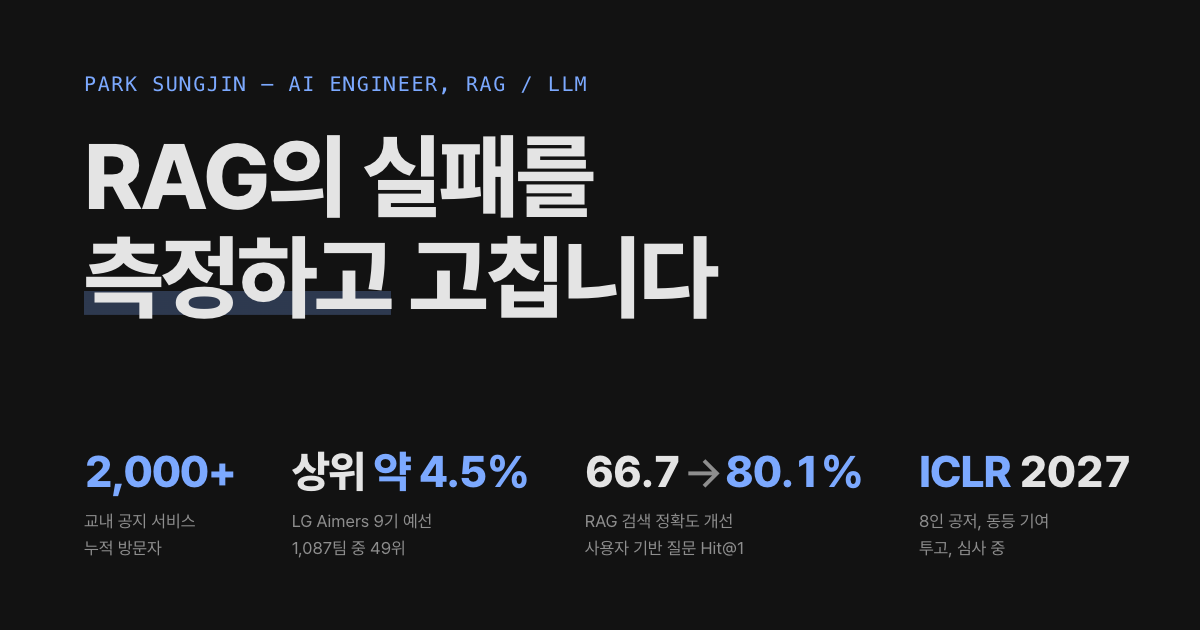
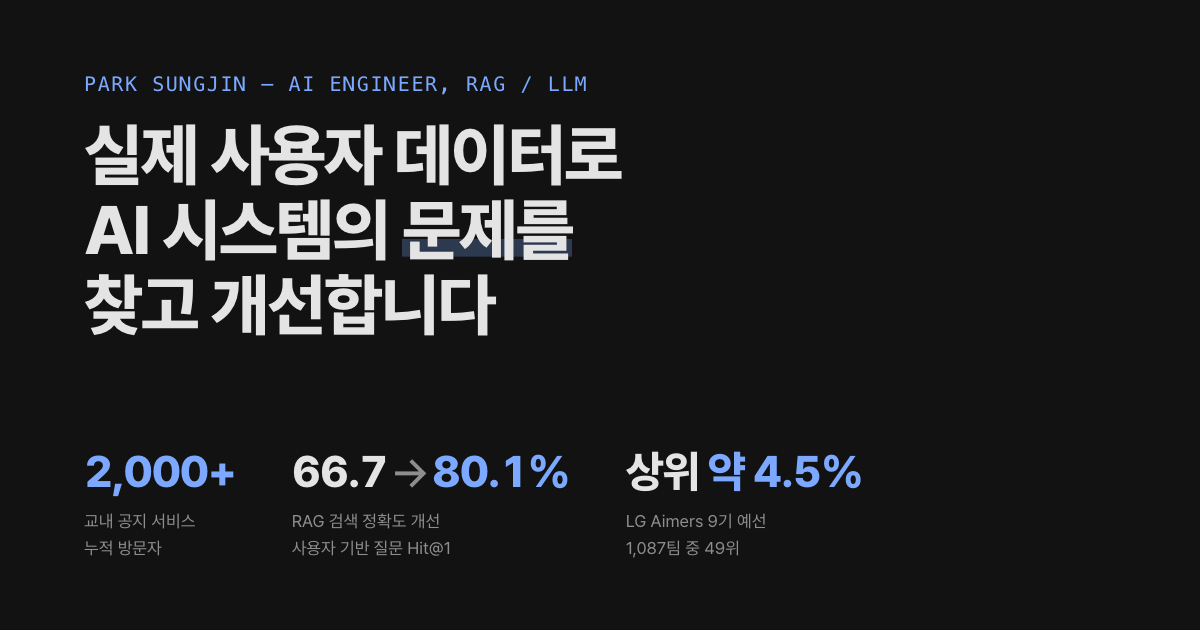
첫 화면 정리: 제목 '실제 사용자 데이터로 AI 시스템의 문제를 찾고 개선합니다', 설명 한 문장, 지표 3개(ICLR 제외), og.png 재생성

diff --git a/index.html b/index.html
@@ -14,7 +14,7 @@ document.documentElement.setAttribute('data-theme',t);})();
 <meta property="og:title" content="박성진 — AI 엔지니어 (RAG, LLM)">
 <meta property="og:description" content="교내 공지 서비스 운영(누적 방문자 2,000+), RAG Hit@1 66.7% → 80.1%(사용자 기반 질문), LG Aimers 9기 온라인 예선 상위 약 4.5%, ICLR 2027 투고 공저(8인 동등 기여)">
 <meta property="og:url" content="https://jinpop.github.io/">
-<meta property="og:image" content="https://jinpop.github.io/og.png?v=13">
+<meta property="og:image" content="https://jinpop.github.io/og.png?v=14">
 <meta property="og:locale" content="ko_KR">
 <meta name="twitter:card" content="summary_large_image">
 <link rel="canonical" href="https://jinpop.github.io/">
@@ -126,7 +126,7 @@ li:target,p:target,tr:target,article:target>h3,details:target>summary{animation:
 .eyebrow{font-family:var(--mono);font-size:.78rem;letter-spacing:.08em;color:var(--accent);text-transform:uppercase}
 h1{
   margin-top:1.25rem;
-  font-size:clamp(2.5rem,1.6rem + 4.5vw,5rem);
+  font-size:clamp(1.85rem,0.9rem + 5.2vw,4.6rem);
   font-weight:800;line-height:1.12;letter-spacing:-0.03em;
 }
 h1 .ul{
@@ -138,7 +138,7 @@ h1 .ul{
 .nb{white-space:nowrap}
 @media (max-width:760px){.br-wide{display:none}}
 
-.stats{margin-top:clamp(2.5rem,2rem + 3vw,4.5rem);list-style:none;display:grid;grid-template-columns:repeat(4,auto);justify-content:start;column-gap:clamp(1.5rem,4vw,3.5rem);row-gap:1.75rem}
+.stats{margin-top:clamp(2.5rem,2rem + 3vw,4.5rem);list-style:none;display:grid;grid-template-columns:repeat(3,auto);justify-content:start;column-gap:clamp(1.5rem,4vw,3.5rem);row-gap:1.75rem}
 .stats .num{
   display:block;font-variant-numeric:tabular-nums;white-space:nowrap;
   font-size:clamp(1.9rem,1.5rem + 1.8vw,2.7rem);font-weight:800;letter-spacing:-0.03em;line-height:1.1;
@@ -365,7 +365,7 @@ figcaption{margin-top:.85rem;font-size:.85rem;color:var(--fg-3);max-width:52ch}
 }
 
 /* ── responsive ─────────────────────────────────────── */
-@media (max-width:1149px){.stats{grid-template-columns:repeat(2,auto)}}
+@media (max-width:760px){.stats{grid-template-columns:repeat(2,auto)}}
 @media (max-width:640px){.stats .num{font-size:6.2vw}}
 @media (max-width:860px){
   .about-grid{grid-template-columns:1fr}
@@ -423,17 +423,15 @@ figcaption{margin-top:.85rem;font-size:.85rem;color:var(--fg-3);max-width:52ch}
   <!-- ── hero ── -->
   <section class="hero shell" id="top" aria-label="소개">
     <p class="eyebrow">Park Sungjin — AI Engineer, RAG / LLM</p>
-    <h1>RAG의 실패를<br><span class="ul">측정하고</span> 고칩니다</h1>
+    <h1><span class="nb">실제 사용자 데이터로</span><br><span class="nb">AI 시스템의 <span class="ul">문제를</span></span><br>찾고 개선합니다</h1>
     <div class="lede">
-      <p><b>실사용자가 있는 RAG 서비스를 직접 만들고 운영하는</b> AI 엔지니어 박성진입니다.<br class="br-wide"> 운영에서 나온 검색 실패를 <b>연구 문제로 정의하고, 그 결과를 다시 서비스에 적용</b>합니다.</p>
-      <p>익숙한 방식도 더 빠른 길이 없는지 먼저 따져 봅니다.<br class="br-wide"> 실험 운영은 <b>역할별 AI 에이전트로 나눠 맡기고</b>, 전략과 최종 판단은 직접 합니다.<br><a class="lk jump" href="#exo-speed">하이퍼파라미터 탐색 시간 약&nbsp;60배 단축(환산)</a>, <span class="nb"><a class="lk jump" href="#rostercrawler">근로 업무 1주일을 5분으로</a>,</span> <span class="nb"><a class="lk jump" href="#dacon-harness">에이전트 하네스 설계</a></span></p>
+      <p>RAG 서비스를 직접 개발하고 운영하며 검색 품질을 평가하고, <b>발견한 실패를 실험과 <span class="nb">시스템 개선으로</span> 연결</b>해 왔습니다.</p>
       <p><span class="nb">한국항공대학교 소프트웨어학과</span>, <span class="nb">2027년 2월 졸업 예정.</span></p>
     </div>
     <ul class="stats" role="list">
       <li><a class="stat" href="#nh-now"><b class="num"><em>2,000+</em></b><span class="lab">교내 공지 서비스<br>누적 방문자</span></a></li>
-      <li><a class="stat" href="#aimers9"><b class="num">상위 <em>약 4.5%</em></b><span class="lab">LG Aimers 9기 예선<br>1,087팀 중 49위</span></a></li>
       <li><a class="stat" href="#nh-realuser"><b class="num">66.7<span class="arr">→</span><em>80.1%</em></b><span class="lab">RAG 검색 정확도 개선<br>사용자 기반 질문 Hit@1</span></a></li>
-      <li><a class="stat" href="#exodro"><b class="num"><em>ICLR</em> 2027</b><span class="lab">8인 공저, 동등 기여<br>투고, 심사 중</span></a></li>
+      <li><a class="stat" href="#aimers9"><b class="num">상위 <em>약 4.5%</em></b><span class="lab">LG Aimers 9기 예선<br>1,087팀 중 49위</span></a></li>
     </ul>
     <p class="hero-links">
       <a class="ext" href="https://github.com/Jinpop" target="_blank" rel="noopener">GitHub</a>

diff --git a/tools/og.html b/tools/og.html
@@ -6,7 +6,7 @@
 html,body{width:1200px;height:630px;background:#121212;color:#E4E4E4;overflow:hidden}
 body{font-family:Pretendard,"Apple SD Gothic Neo",sans-serif;padding:72px 84px 0;-webkit-font-smoothing:antialiased}
 .eyebrow{font-family:ui-monospace,"SF Mono",Menlo,monospace;font-size:20px;letter-spacing:.08em;color:#7CA9FF;text-transform:uppercase}
-h1{margin-top:30px;font-size:92px;font-weight:800;line-height:1.1;letter-spacing:-0.03em}
+h1{margin-top:22px;font-size:68px;font-weight:800;line-height:1.1;letter-spacing:-0.03em}
 .ul{background:linear-gradient(rgba(124,169,255,.26),rgba(124,169,255,.26)) no-repeat 0 80%/100% .26em}
 .stats{position:absolute;left:84px;right:84px;top:448px;display:flex;gap:56px;list-style:none}
 .num{font-size:44px;font-weight:800;letter-spacing:-0.03em;line-height:1.1;white-space:nowrap;font-variant-numeric:tabular-nums}
@@ -15,11 +15,10 @@ h1{margin-top:30px;font-size:92px;font-weight:800;line-height:1.1;letter-spacing
 .lab{margin-top:12px;font-size:17px;line-height:1.55;color:rgba(255,255,255,.52)}
 </style></head><body>
 <p class="eyebrow">Park Sungjin — AI Engineer, RAG / LLM</p>
-<h1>RAG의 실패를<br><span class="ul">측정하고</span> 고칩니다</h1>
+<h1>실제 사용자 데이터로<br>AI 시스템의 <span class="ul">문제를</span><br>찾고 개선합니다</h1>
 <ul class="stats">
 <li><b class="num"><em>2,000+</em></b><p class="lab">교내 공지 서비스<br>누적 방문자</p></li>
-<li><b class="num">상위 <em>약 4.5%</em></b><p class="lab">LG Aimers 9기 예선<br>1,087팀 중 49위</p></li>
 <li><b class="num">66.7<span class="arr">→</span><em>80.1%</em></b><p class="lab">RAG 검색 정확도 개선<br>사용자 기반 질문 Hit@1</p></li>
-<li><b class="num"><em>ICLR</em> 2027</b><p class="lab">8인 공저, 동등 기여<br>투고, 심사 중</p></li>
+<li><b class="num">상위 <em>약 4.5%</em></b><p class="lab">LG Aimers 9기 예선<br>1,087팀 중 49위</p></li>
 </ul>
 </body></html>
